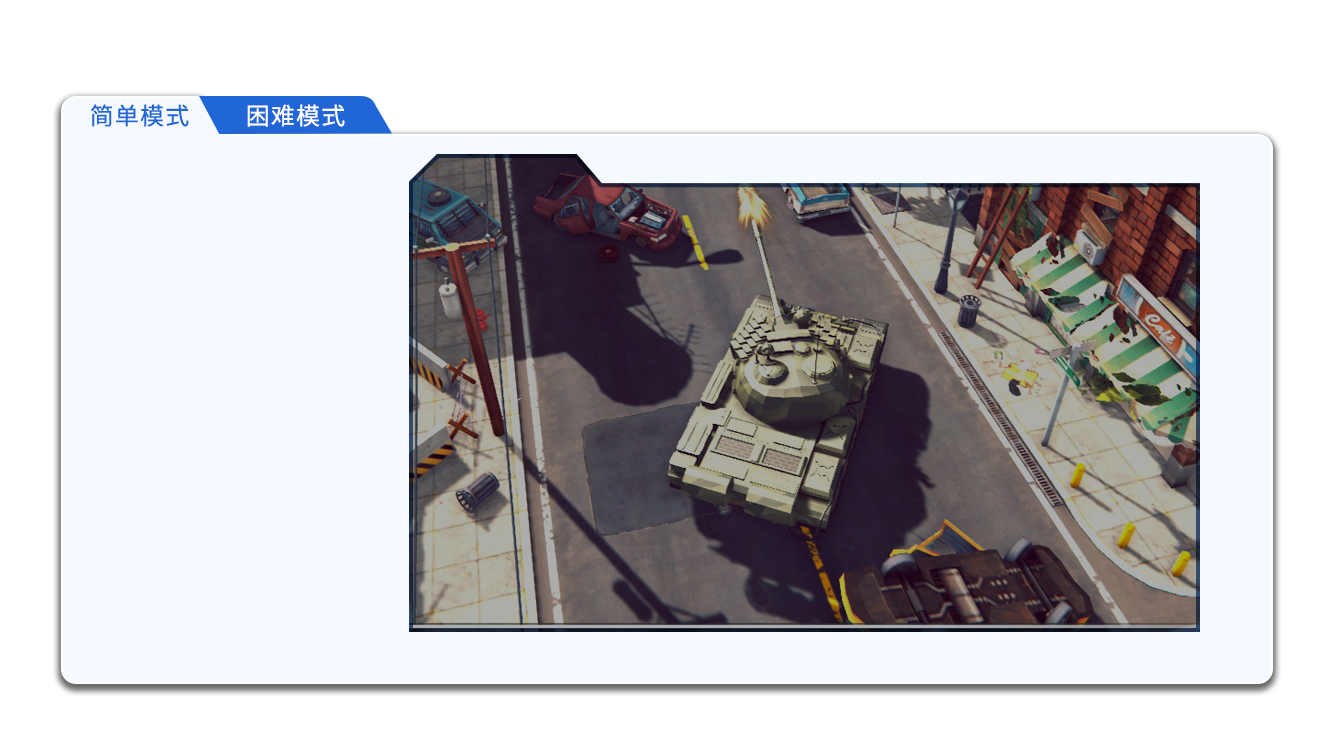
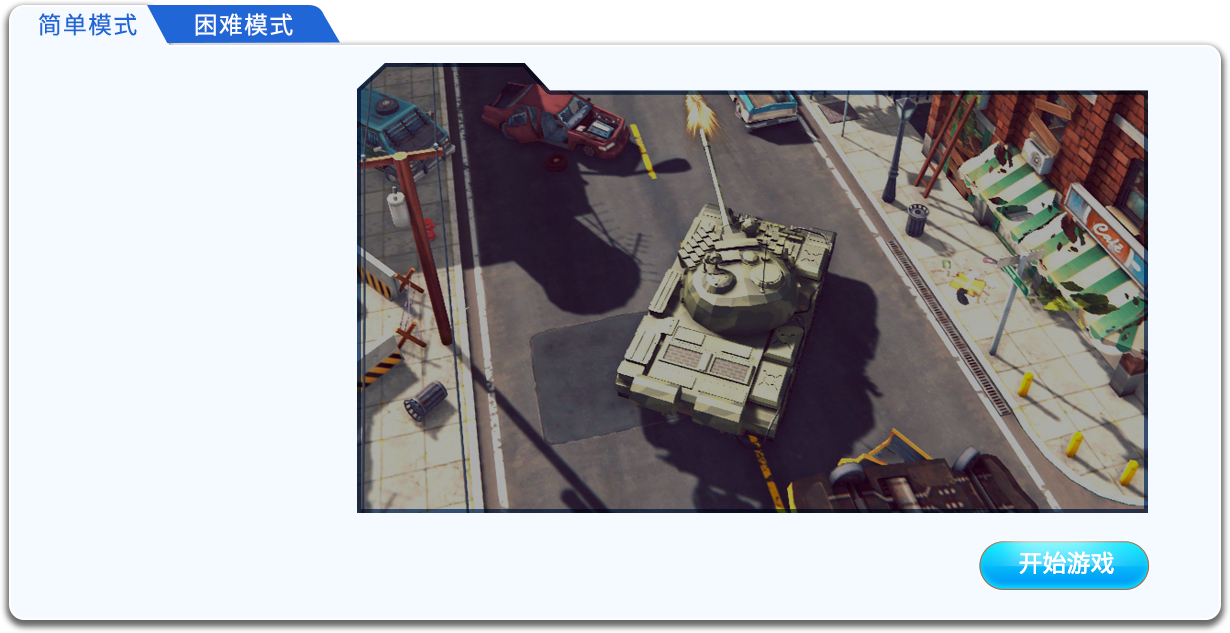
替换难度选择画面

diff --git a/websocket/src/main/resources/static/js/share/stage/mission.js b/websocket/src/main/resources/static/js/share/stage/mission.js
@@ -20,8 +20,8 @@ export default class Mission extends Stage {
             draw: function (ctx) {
                 ctx.drawResourceCenter(
                     thisMission.roomInfo.hardMode ? "mission_hard" : "mission_easy",
-                    Resource.width() / 2, Resource.height() / 2,
-                    Resource.width(), Resource.height());
+                    Resource.width() / 2, Resource.height() * .54,
+                    Resource.width() * .92, Resource.height() * .84);
             }
         });
         this.initControlEvent();
